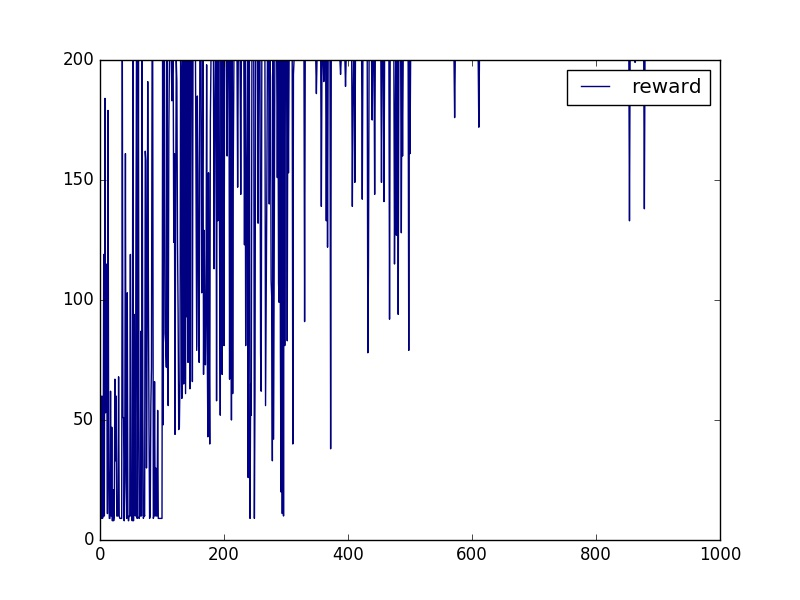
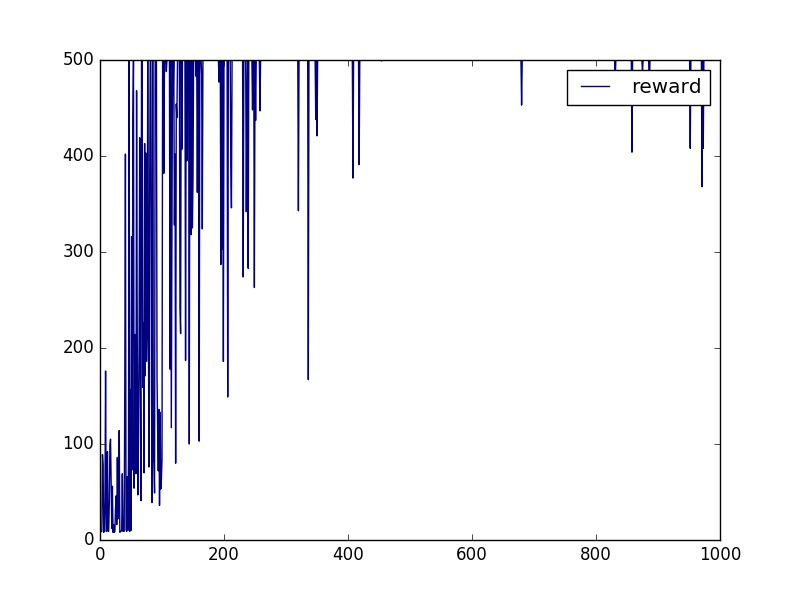
finish the problem cartpole-v1

diff --git a/cartpole_v1_CE_solution.py b/cartpole_v1_CE_solution.py
@@ -9,10 +9,10 @@ if __name__ == '__main__':
     input_space = 4
     action_space = 2
     env = gym.make('CartPole-v1')
-    env.monitor.start('/tmp/cartpole-experiment-2')
+    env.monitor.start('/tmp/cartpole-experiment-3')
     robot = GaussLinearCERobot(action_space, input_space,
                                np.zeros(action_space*input_space), np.eye(input_space*action_space),
-                               noise_begin=5, noise_delta=0.01, try_number=100, ru=0.2)
+                               noise_begin=5, noise_delta=0.01, try_number=50, ru=0.2)
     simulator = Simulator(env, robot, verbose=True, save_path='CartPole-v0/DQN/2.jpg')
-    simulator.run(episode_number=1000, max_episode_length=500, has_loss=False)
+    simulator.run(episode_number=1000, max_episode_length=1000, has_loss=False)
     env.monitor.close()
